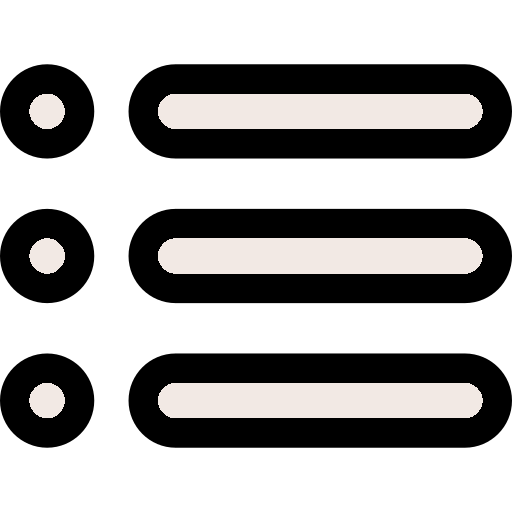
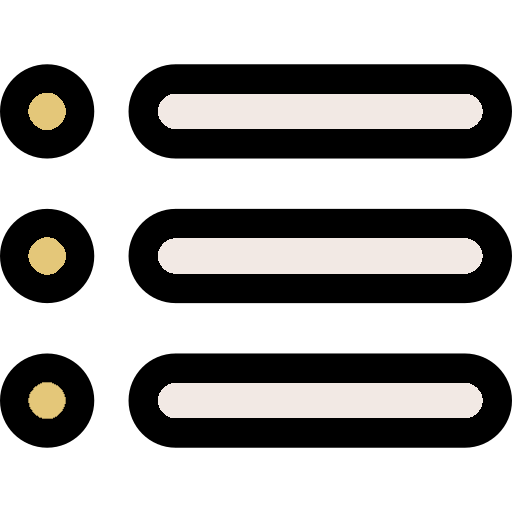
check for why wierd update cond

Changed region(s): [[0.0312, 0.4688, 0.125, 0.5312], [0.0312, 0.75, 0.125, 0.8125], [0.0312, 0.1875, 0.125, 0.25]]

diff --git a/sketch.js b/sketch.js
@@ -47,14 +47,14 @@ class Vector {
   };
 
   getAddition(v) {
-    let newX = this.x += v.x;
-    let newY = this.y += v.y;
+    let newX = this.x + v.x;
+    let newY = this.y + v.y;
     return new Vector(newX, newY);
   };
 
   getSubtraction(v) {
-    let newX = this.x -= v.x;
-    let newY = this.y -= v.y;
+    let newX = this.x - v.x;
+    let newY = this.y - v.y;
     return new Vector(newX, newY);
   };
 
@@ -1036,7 +1036,7 @@ class Particle {
   }
 
   getFreeFallIntialConditions(t) {
-    console.log(this.freeFallInitialConditions, "freefallinitialconditions IN GET FREE FALL");
+    //console.log(this.freeFallInitialConditions, "freefallinitialconditions IN GET FREE FALL");
     let closestTime = 0;
     for (let time in this.freeFallInitialConditions) {
       if (parseFloat(time) <= t && parseFloat(time) > closestTime) {
@@ -1054,17 +1054,17 @@ class Particle {
       this.velocity
     );
     let currVel = tangentialVelocityComponent.getMagnitude();
-    console.log(currVel, "currVel");
+    //console.log(currVel, "currVel");
     let currAngle = -1 * this.pos.getAngle(); //uses standard [in polar form] angle (diff to the inital angle defention as it needs angle from the lower vertical)
     //console.log(currAngle, "currangle");
     //console.log(currVel, "currVel");
-    console.log(
-      this.mass,
-      currVel ** 2,
-      this.lineDist,
-      this.sys.g,
-      Math.sin(Math.abs(currAngle))
-    );
+    // console.log(
+    //   this.mass,
+    //   currVel ** 2,
+    //   this.lineDist,
+    //   this.sys.g,
+    //   Math.sin(Math.abs(currAngle))
+    // );
     if (currAngle >= 0 && currAngle < Math.PI / 2) {
       //1st quadrant --> T+Mgsin(theta) = Ma
       tension =
@@ -1140,7 +1140,7 @@ class Particle {
 
     this.velocity.x = v.x;
     this.velocity.y = v.y;
-    console.log(this.velocity.x, this.velocity.y, "velocity");
+    //console.log(this.velocity.x, this.velocity.y, "velocity");
   }
 
   projMotion(t) {
@@ -1151,14 +1151,14 @@ class Particle {
     let v = new Vector(0, 0);
 
     let latestInitialConditionsList = this.getFreeFallIntialConditions(t);
-    console.log(latestInitialConditionsList, "latestInitialConditionsList");
+    //console.log(latestInitialConditionsList, "latestInitialConditionsList");
     let latestInitialConditions = latestInitialConditionsList[0];
     let t0 = latestInitialConditionsList[1];
     
 
-    console.log("lates inituial conditions for proj mot:", latestInitialConditions);
-    let s0 = latestInitialConditions[0];
-    let u = latestInitialConditions[1];
+    //console.log("lates inituial conditions for proj mot:", latestInitialConditions);
+    let s0 = latestInitialConditions[0].getScale(1 / this.sys.scale);
+    let u = latestInitialConditions[1].getScale(1 / this.sys.scale);
     let a = latestInitialConditions[2];
     
 
@@ -1170,18 +1170,14 @@ class Particle {
     console.log(t, "t");
     console.log("} (end)");
 
-    s = s0
-      .getAddition(u.getScale(t - t0))
-      .getAddition(a.getScale(0.5 * (t - t0) ** 2));
-    v = u.getAddition(a.getScale(t - t0));
+    s = (s0.getAddition(u.getScale(t - t0)).getAddition(a.getScale(0.5 * (t - t0) ** 2))).getScale(this.sys.scale);
+    v = (u.getAddition(a.getScale(t - t0))); //.getScale(this.sys.scale);
 
     console.log(s.x, s.y, "s FINAL");
     console.log(v.x, v.y, "v FINAL");
-
-    console.log(s0.x, s0.y, "s0 BEFORE");
     this.pos.x = s.x;
     this.pos.y = s.y;
-    console.log(s0.x, s0.y, "s0 AFTER");
+    
     this.x = this.originPoint.x + this.pos.x;
     this.y = this.originPoint.y + this.pos.y;
 
@@ -1212,15 +1208,12 @@ class Particle {
     //need to get tension
 
     let tension = this.getTension();
-    console.log(tension, "tension");
+    console.log(tension, "tensionnnnnnnnnnnnnnnnnnnnnnnnnnnnnnnnnn");
 
     if (this.inFreeFall) {
       //check if not in freefall anymore
       //if in freefall then continue proj motion
-      if (
-        dist(this.x, this.y, this.originPoint.x, this.originPoint.y) >
-        this.lineDist
-      ) {
+      if (dist(this.x, this.y, this.originPoint.x, this.originPoint.y) > this.lineDist) {
         //if the distance between the particle and the origin point is greater than the line distance then the string is no longer slack
 
         let posMag = this.pos.getMagnitude();
@@ -1267,10 +1260,10 @@ class Particle {
       //getting initial conditions
       let initalConditions = this.getIntialConditions(t);
       let initalConditionsList = initalConditions[0];
-      console.log(
-        "initial conditions for rod INITAL LIST",
-        initalConditionsList
-      );
+      // console.log(
+      //   "initial conditions for rod INITAL LIST",
+      //   initalConditionsList
+      // );
       let startTime = initalConditions[1];
 
       //setting up the initial conditions for the differential equation
@@ -1298,22 +1291,29 @@ class Particle {
         this.updateVelocity();
       } else {
         //set inital conditions for proj motion
-        console.log("IN FREE FALL is trueee INITAL CONDITONS SETTTTTTTTTTTTTTTTTTTTTTTTTTTTTTTTTTTTTTTTTTTTTTTTTTTTTTTTTTTTTTTTTTTTTTTTTTTTTTTTTTTTTTTTTTTTTTTTTTTTTTTTTTTTTTTT");
+        //console.log("IN FREE FALL is trueee INITAL CONDITONS SETTTTTTTTTTTTTTTTTTTTTTTTTTTTTTTTTTTTTTTTTTTTTTTTTTTTTTTTTTTTTTTTTTTTTTTTTTTTTTTTTTTTTTTTTTTTTTTTTTTTTTTTTTTTTTTT");
         this.inFreeFall = true;
         
         const s0 = new Vector(this.pos.x, this.pos.y);
         
-        const u = new Vector(0, 0);
-        console.log(u.x, u.y, "u");
+        const u = new Vector(this.velocity.x, this.velocity.y);
+        //console.log(u.x, u.y, "u");
         
         const a = new Vector(0, this.sys.g); //dont * -1 as the y axis is flipped in the coordinate system
         let lst = [s0, u, a];
-        console.log(lst[1].x, lst[1].y, "lst uuuu");
+        console.log("INITAL FREE FALL CONDITIONS =======================================================>>");
+        console.log(s0.x, s0.y, "s0");
+        console.log(u.x, u.y, "u");
+        console.log(a.x, a.y, "a");
+        console.log("===========================================================================>>");
+
+        //console.log(lst[1].x, lst[1].y, "lst uuuu");
 
         this.freeFallInitialConditions[t] = lst;
-        console.log(this.freeFallInitialConditions[t][1].y, "freefallinitialconditions");
+        //console.log(this.freeFallInitialConditions[t][1].y, "freefallinitialconditions");
       }
     }
+    this.displayVelocity();
   }
 
   rodMovement(t) {
@@ -1409,7 +1409,7 @@ class Particle {
     //gets position vector from originPoint set as the origin
 
     //this.initialAngle = -1 * this.pos.getAngle() + Math.PI / 2;
-    console.log(this.pos.getAngle(), "initial angle fro, getAngle()");
+    //console.log(this.pos.getAngle(), "initial angle fro, getAngle()");
     console.log(
       -1 * this.pos.getAngle() + Math.PI / 2,
       "initial angle SETTTTT"

diff --git a/index.html b/index.html
@@ -23,7 +23,7 @@
           <input type="image" src="images/objectsColoured.png" id="objectsMenuButton" class="tool toolImgButton">
           <input type="image" src="images/pointColoured.png" id="createPointButton" class="tool toolImgButton">
           <input type="image" src="images/circleColoured.png" id="createParticleButton" class="tool toolImgButton">
-          <input type="image" src="images/surfaceColoured.png" id="surface" class="tool toolImgButton">     
+          <input type="image" src="images/cut.png" id="cut" class="tool toolImgButton">     
         </div>
         <div class="right">
           <input type="image" src="images/resetButtonColoured.png" id="resetButton" class="tool toolImgButton">
